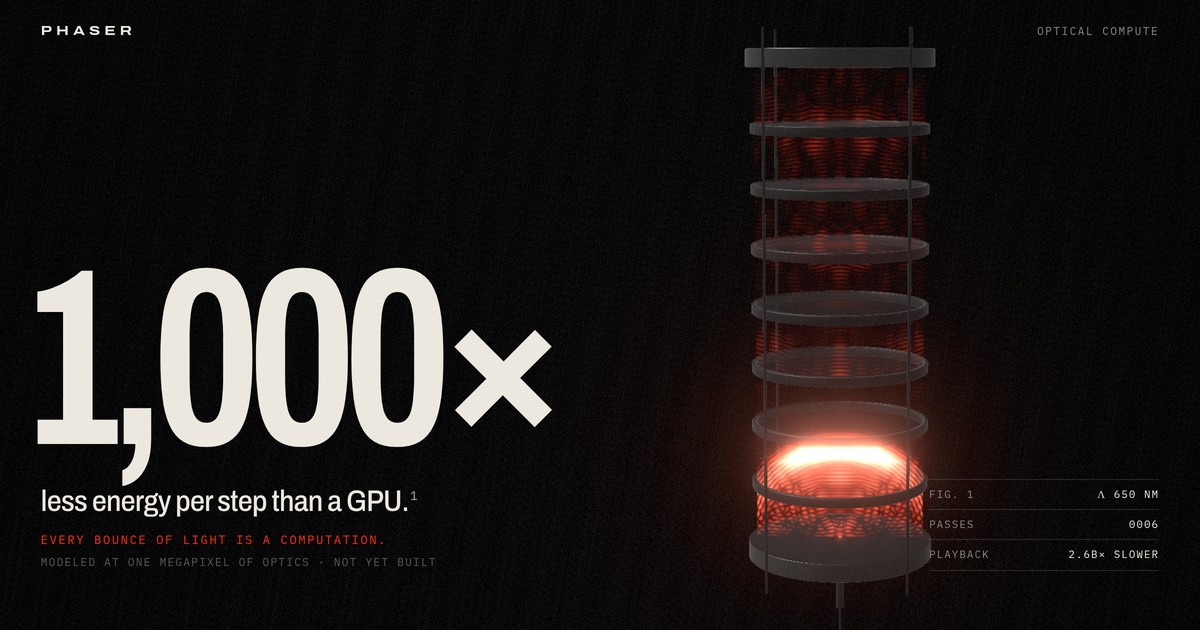
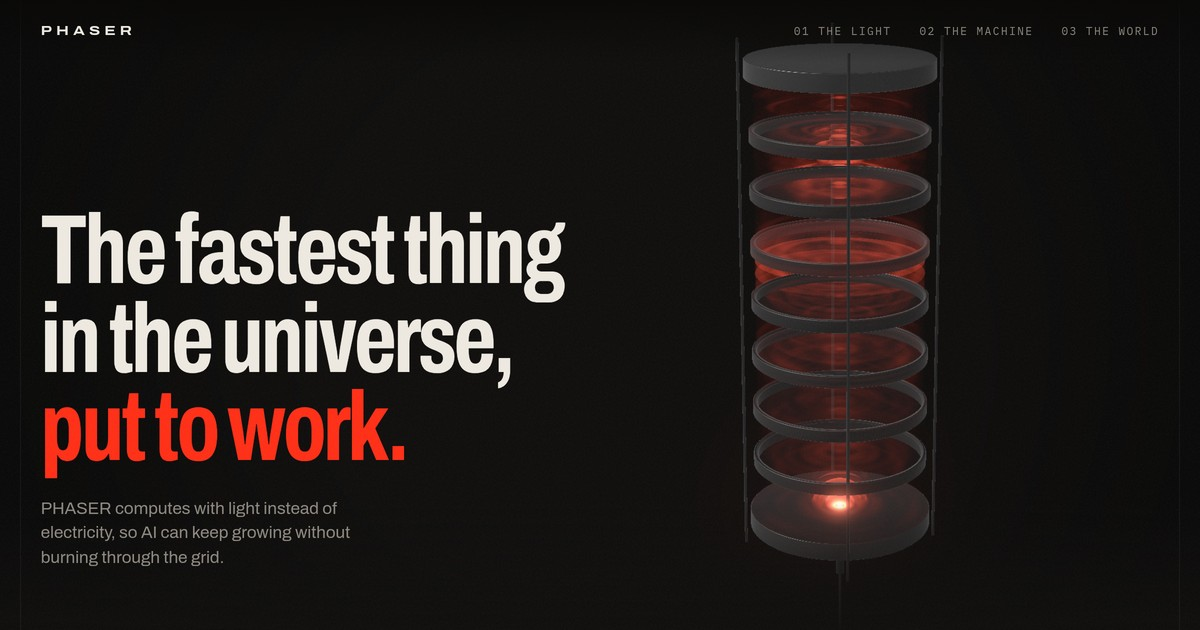
site: inspirational hero, 1,000x moves into 01, particle streams, prewarmed sim
- hero: 'The fastest thing in the universe, put to work.' with a plain-English subline; drop the Fig. 1 plate
- 01: cut 'Every one of them is paid for in heat.'; the 1,000x claim (with its modeled caveat) now sits here
- photon: a continuous stream of light packets; electrons: four at once, each zipping to an atom, heating it,
  then re-emitted toward the next atom; both start in equilibrium
- hero and miniature cavity pre-run two round trips so the first frame is fully populated
- 02: 'Optical computation' + 'Algorithms are mapped onto the diffusion process photons perform as they bounce
  within a resonance chamber.'; drop the rule above the closing paragraph
- refresh the share card

diff --git a/site/src/components/launch/FieldVolume.tsx b/site/src/components/launch/FieldVolume.tsx
@@ -3,11 +3,11 @@
  * Volumetric renderings of a photon and an electron as complex fields, ray-marched through a fine voxel grid.
  * Brightness is the density |ψ|² (for light, |E|²); colour is the phase arg ψ, mapped blue ↔ orange.
  *
- * Photon: a Gaussian wave packet of light in vacuum, E ∝ exp(−(x−ct)²/2σ² − ρ²/w²) · e^{i(kx−ωt)}. It moves rigidly at c
- * and keeps its norm: nothing in free space takes energy from it.
- * Electron: a Bloch wave packet, envelope × e^{ik·r} × a lattice-periodic factor on a diamond-cubic crystal. It drifts,
- * scatters (stalls, spreads, emits a spherical scattered wavelet) and leaves on a new heading; each event deposits heat
- * (red) into the lattice around the site.
+ * Photon: a stream of Gaussian light packets in vacuum, E ∝ exp(−(x−ct)²/2σ² − ρ²/w²) · e^{i(kx−ωt)}. They move rigidly
+ * at c and keep their norm: nothing in free space takes energy from them.
+ * Electrons: Bloch wave packets (envelope × e^{ik·r} × a lattice-periodic factor) in a diamond-cubic crystal. Each flies to
+ * an atom and is absorbed; the atom heats up (red) and rings out a spherical wavelet, then emits a new electron toward the
+ * next atom.
  */
 import { useEffect, useRef } from 'react'
 
@@ -38,22 +38,30 @@ bool box(vec3 ro, vec3 rd, out float t0, out float t1) {
 const PHOTON = COMMON + `
 uniform float uX0;
 vec4 sampleField(vec3 p) {
-  float sx = 0.55, w = 0.5, k = 22.0;
-  float dx = p.x - uX0;
-  float env = exp(-dx * dx / (2.0 * sx * sx) - dot(p.yz, p.yz) / (w * w));
-  float ph = k * dx; // the phase rides with the packet: in vacuum phase and group velocity are both c
-  float re = env * cos(ph);
-  // raw field: energy density of the real field, E·E, as thin crest sheets; colour = sign of E
-  float c2 = cos(ph) * cos(ph);
-  float dens = env * env * (c2 * c2 * 1.8 + 0.04);
-  return vec4(phaseColor(ph) * dens, dens);
+  // a continuous stream of identical light packets, evenly spaced, all moving at c
+  float sx = 0.34, w = 0.42, k = 22.0, span = 5.6, gap = 1.4;
+  float rho = exp(-dot(p.yz, p.yz) / (w * w));
+  vec3 col = vec3(0.0);
+  float dens = 0.0;
+  for (int n = 0; n < 4; n++) {
+    float x0 = mod(uX0 + float(n) * gap + span * 0.5, span) - span * 0.5;
+    float dx = p.x - x0;
+    float env = exp(-dx * dx / (2.0 * sx * sx)) * rho;
+    float ph = k * dx; // the phase rides with the packet: in vacuum phase and group velocity are both c
+    float c2 = cos(ph) * cos(ph);
+    // raw field: energy density of the real field E·E as thin crest sheets; colour = sign of E
+    float d = env * env * (c2 * c2 * 1.8 + 0.04);
+    col += phaseColor(ph) * d;
+    dens += d;
+  }
+  return vec4(col, dens);
 }
 `
 
 const ELECTRON = COMMON + `
-uniform vec3 uC, uK;          // packet centre and wave vector
-uniform float uSig;           // envelope width (grows while scattering)
-uniform vec4 uEv[6];          // scattering events: xyz = site, w = birth time (−1 = none)
+uniform vec4 uE[4];           // electrons: xyz = centre, w = 1 when in flight
+uniform vec3 uEk[4];          // their wave vectors
+uniform vec4 uEv[10];         // absorption events: xyz = atom, w = time (−1 = none)
 const float A = 0.5;           // lattice constant
 float lattice(vec3 p) {
   // diamond cubic density: distance to the nearest of the 8 basis atoms in the unit cell
@@ -70,34 +78,40 @@ float lattice(vec3 p) {
 }
 vec4 sampleField(vec3 p) {
   float u = lattice(p);
-  vec3 r = p - uC;
-  float env = exp(-dot(r, r) / (2.0 * uSig * uSig));
-  // Bloch packet: envelope × plane wave × (smooth + lattice-periodic part)
-  float amp = env * (0.8 + 0.5 * u);
-  float ph = dot(uK, r) - uT * 9.0;
-  vec2 psi = amp * vec2(cos(ph), sin(ph));
+  vec3 col = vec3(0.0);
+  float dens = 0.0;
+  for (int i = 0; i < 4; i++) {
+    if (uE[i].w < 0.5) continue;
+    vec3 r = p - uE[i].xyz;
+    float env = exp(-dot(r, r) / (2.0 * 0.15 * 0.15));
+    if (env < 1e-3) continue;
+    // Bloch packet: envelope × plane wave × (smooth + lattice-periodic part), drawn through Re ψ
+    float ph = dot(uEk[i], r) - uT * 14.0;
+    float cc = cos(ph) * cos(ph);
+    float d = env * env * (0.8 + 0.5 * u) * (0.08 + 1.7 * cc * cc);
+    col += phaseColor(ph) * d;
+    dens += d;
+  }
   float heat = 0.0;
-  for (int i = 0; i < 6; i++) {
+  for (int i = 0; i < 10; i++) {
     if (uEv[i].w < 0.0) continue;
     float age = uT - uEv[i].w;
     vec3 q = p - uEv[i].xyz;
-    float d = length(q);
-    // outgoing spherical scattered wavelet
-    float shell = exp(-pow(d - 0.9 * age, 2.0) / (2.0 * 0.05 * 0.05)) * exp(-age * 1.6) / (1.0 + 5.0 * d);
-    float phs = 22.0 * d - uT * 9.0;
-    psi += 1.4 * shell * vec2(cos(phs), sin(phs));
-    // heat left in the lattice around the site
-    heat += (0.25 + u) * exp(-d * d / 0.02) * exp(-age * 0.5);
+    float dd = length(q);
+    // the absorbing atom rings out a spherical wavelet ...
+    float shell = exp(-pow(dd - 1.2 * age, 2.0) / (2.0 * 0.04 * 0.04)) * exp(-age * 3.0) / (1.0 + 6.0 * dd);
+    float phs = 26.0 * dd - uT * 14.0;
+    float cs = cos(phs) * cos(phs);
+    float ds = shell * shell * 1.6 * (0.1 + 1.6 * cs * cs);
+    col += phaseColor(phs) * ds;
+    dens += ds;
+    // ... and heats up
+    heat += (0.3 + u) * exp(-dd * dd / 0.012) * exp(-age * 0.9);
   }
-  float ph2 = atan(psi.y, psi.x);
-  // probability cloud |ψ|², drawn through its real part so the phase fronts show as sheets
-  float cc = cos(ph2) * cos(ph2);
-  float dens = dot(psi, psi) * (0.08 + 1.7 * cc * cc);
-  vec3 col = phaseColor(ph2);
   // the crystal itself: faint grey density at the atom sites; heat turns it red
   float lat = u * 0.3;
-  vec3 c = col * dens + vec3(0.62, 0.6, 0.57) * lat + vec3(1.0, 0.14, 0.06) * heat * 2.0;
-  return vec4(c, dens + lat + heat * 2.0);
+  col += vec3(0.62, 0.6, 0.57) * lat + vec3(1.0, 0.14, 0.06) * heat * 2.4;
+  return vec4(col, dens + lat + heat * 2.4);
 }
 `
 
@@ -154,13 +168,59 @@ export function FieldVolume({ kind, onEvent }: { kind: Kind; onEvent?: (n: numbe
     const loc = gl.getAttribLocation(pr, 'p'); gl.enableVertexAttribArray(loc); gl.vertexAttribPointer(loc, 2, gl.FLOAT, false, 0, 0)
     const U = (n: string) => gl.getUniformLocation(pr, n)
 
-    // electron walk state
+    // electrons hop atom to atom: fly to a target atom, get absorbed (the atom heats up), and a moment later a new
+    // electron leaves that atom for the next target
     let seed = 11
     const rnd = () => ((seed = (seed * 16807) % 2147483647) / 2147483647)
-    const W = { c: [-1.7, 0, 0] as V3, dir: [1, 0, 0] as V3, seg: 0, free: 0.5, stall: 0, sig: 0.34, events: [] as [number, number, number, number][], hits: 0 }
-    const newDir = (): V3 => norm([0.8 + rnd() * 0.7, (rnd() - 0.5) * 1.8, (rnd() - 0.5) * 1.8])
+    const LA = 0.5
+    const BASIS: V3[] = [[0, 0, 0], [0.5, 0.5, 0], [0.5, 0, 0.5], [0, 0.5, 0.5], [0.25, 0.25, 0.25], [0.75, 0.75, 0.25], [0.75, 0.25, 0.75], [0.25, 0.75, 0.75]]
+    const atoms: V3[] = []
+    for (let i = -4; i <= 4; i++) for (let j = -2; j <= 2; j++) for (let k = -2; k <= 2; k++) for (const b of BASIS) {
+      const q: V3 = [(i + b[0]) * LA, (j + b[1]) * LA, (k + b[2]) * LA]
+      if (Math.abs(q[0]) < 1.85 && Math.abs(q[1]) < 0.8 && Math.abs(q[2]) < 0.8) atoms.push(q)
+    }
+    const pick = (from: V3): V3 => {
+      // next target: an atom ahead (the applied field pushes +x), a short hop away
+      const c = atoms.filter((q) => q[0] - from[0] > 0.15 && q[0] - from[0] < 0.9 && Math.hypot(q[1] - from[1], q[2] - from[2]) < 0.7)
+      return c.length ? c[Math.floor(rnd() * c.length)] : atoms[Math.floor(rnd() * atoms.length)]
+    }
+    type E = { p: V3; to: V3; dir: V3; state: 'fly' | 'hot'; timer: number }
+    const spawn = (): E => { const p: V3 = [-1.95, (rnd() - 0.5) * 1.2, (rnd() - 0.5) * 1.2]; const to = pick(p); return { p, to, dir: norm([to[0] - p[0], to[1] - p[1], to[2] - p[2]]), state: 'fly', timer: 0 } }
+    const el: E[] = Array.from({ length: 4 }, spawn)
+    const events: [number, number, number, number][] = []
+    let hits = 0
+    const stepE = (d: number, now: number) => {
+      for (let n = 0; n < el.length; n++) {
+        const e = el[n]
+        if (e.state === 'fly') {
+          const v = 2.4 * d
+          const dx = e.to[0] - e.p[0], dy = e.to[1] - e.p[1], dz = e.to[2] - e.p[2]
+          const dist = Math.hypot(dx, dy, dz)
+          if (dist <= v) {
+            e.p = [...e.to] as V3
+            e.state = 'hot'
+            e.timer = 0.3 + rnd() * 0.25
+            events.push([e.to[0], e.to[1], e.to[2], now])
+            if (events.length > 10) events.shift()
+            hits++
+          } else e.p = [e.p[0] + (dx / dist) * v, e.p[1] + (dy / dist) * v, e.p[2] + (dz / dist) * v]
+        } else {
+          e.timer -= d
+          if (e.timer <= 0) {
+            if (e.p[0] > 1.35) { el[n] = spawn(); continue }
+            e.to = pick(e.p)
+            e.dir = norm([e.to[0] - e.p[0], e.to[1] - e.p[1], e.to[2] - e.p[2]])
+            e.state = 'fly'
+          }
+        }
+      }
+    }
+    // start in equilibrium: stagger the electrons across the crystal and let them run for a few seconds
+    el.forEach((e, n) => { e.p = [-1.8 + n * 0.9, e.p[1], e.p[2]]; e.to = pick(e.p); e.dir = norm([e.to[0] - e.p[0], e.to[1] - e.p[1], e.to[2] - e.p[2]]) })
+    let tPre = 0
+    for (let i = 0; i < 240; i++) { tPre += 1 / 60; stepE(1 / 60, tPre) }
 
-    let raf = 0, visible = false, last = performance.now(), t = 0, first = true
+    let raf = 0, visible = false, last = performance.now(), t = tPre, first = true
     const reduced = matchMedia('(prefers-reduced-motion: reduce)').matches
     const io = new IntersectionObserver(([e]) => { visible = e.isIntersecting })
     io.observe(cv)
@@ -190,33 +250,16 @@ export function FieldVolume({ kind, onEvent }: { kind: Kind; onEvent?: (n: numbe
       gl.uniform3fv(U('uEye'), eye); gl.uniform3fv(U('uRight'), right); gl.uniform3fv(U('uUp'), up); gl.uniform3fv(U('uFwd'), fwd)
       if (kind === 'photon') {
         const span = 5.2
-        gl.uniform1f(U('uX0'), ((t * 1.1) % span) - span / 2)
+        gl.uniform1f(U('uX0'), (t * 1.1) % span)
       } else {
-        if (W.stall > 0) {
-          W.stall -= d
-          W.sig = Math.min(0.5, W.sig + d * 0.5)
-          if (W.stall <= 0) { W.dir = newDir(); W.seg = 0; W.free = 0.3 + rnd() * 0.45 }
-        } else {
-          W.sig = Math.max(0.32, W.sig - d * 0.35)
-          const v = 0.55
-          W.c = [W.c[0] + W.dir[0] * v * d, W.c[1] + W.dir[1] * v * d, W.c[2] + W.dir[2] * v * d]
-          W.seg += v * d
-          for (const ax of [1, 2] as const) if (Math.abs(W.c[ax]) > 0.62) { W.dir[ax] *= -1; W.c[ax] = Math.sign(W.c[ax]) * 0.62 }
-          if (W.c[0] > 1.75) { W.c = [-1.75, (rnd() - 0.5) * 0.6, (rnd() - 0.5) * 0.6]; W.dir = [1, 0, 0] }
-          if (W.seg > W.free) {
-            W.stall = 0.45
-            W.events.push([W.c[0], W.c[1], W.c[2], t])
-            if (W.events.length > 6) W.events.shift()
-            W.hits++
-            cb.current?.(W.hits)
-          }
-        }
-        gl.uniform3fv(U('uC'), W.c)
-        const k = W.stall > 0 ? 9 : 22
-        gl.uniform3fv(U('uK'), [W.dir[0] * k, W.dir[1] * k, W.dir[2] * k])
-        gl.uniform1f(U('uSig'), W.sig)
-        const ev = new Float32Array(24).fill(-1)
-        W.events.forEach((e, i) => ev.set(e, i * 4))
+        stepE(d, t)
+        cb.current?.(hits)
+        const E = new Float32Array(16), K = new Float32Array(12)
+        el.forEach((e, n) => { E.set([e.p[0], e.p[1], e.p[2], e.state === 'fly' ? 1 : 0], n * 4); K.set([e.dir[0] * 24, e.dir[1] * 24, e.dir[2] * 24], n * 3) })
+        gl.uniform4fv(U('uE'), E)
+        gl.uniform3fv(U('uEk'), K)
+        const ev = new Float32Array(40).fill(-1)
+        events.forEach((e, i) => ev.set(e, i * 4))
         gl.uniform4fv(U('uEv'), ev)
       }
       gl.drawArrays(gl.TRIANGLE_STRIP, 0, 4)

diff --git a/site/src/components/launch/Hero.module.css b/site/src/components/launch/Hero.module.css
@@ -5,21 +5,15 @@
 .top { position: fixed; top: 0; left: 0; right: 0; background: linear-gradient(to bottom, rgba(10, 9, 8, 0.85), rgba(10, 9, 8, 0)); display: flex; justify-content: space-between; align-items: baseline; padding: 22px var(--gutter); color: var(--graphite); z-index: 60; }
 .mark { font-family: var(--f-display); font-variation-settings: 'wdth' 125; font-weight: 700; letter-spacing: 0.32em; font-size: 13px; color: var(--fg); }
 .claim { position: absolute; left: var(--gutter); bottom: clamp(56px, 11vh, 120px); z-index: 2; max-width: 52vw; pointer-events: none; }
-.claim h1 { margin: 0; font-weight: 400; }
-.big { display: block; font-size: clamp(120px, 21vw, 400px); color: var(--fg); margin-left: -0.04em; }
-.line { display: block; font-size: clamp(22px, 2.5vw, 44px); font-variation-settings: 'wdth' 85; font-weight: 500; letter-spacing: -0.015em; line-height: 1.05; margin-top: 0.75em; max-width: 14em; }
-.sub { margin: 1.1em 0 0; font-family: var(--f-mono); font-size: 12px; letter-spacing: 0.14em; text-transform: uppercase; color: var(--red); }
-.note { margin: 0.6em 0 0; font-family: var(--f-mono); font-size: 11px; letter-spacing: 0.12em; text-transform: uppercase; color: var(--graphite-2); }
-.plate { position: absolute; right: var(--gutter); bottom: clamp(56px, 11vh, 120px); z-index: 2; font-family: var(--f-mono); font-size: 10.5px; letter-spacing: 0.12em; text-transform: uppercase; color: var(--graphite); border-top: 1px solid var(--rule); min-width: 230px; }
-.plate div { display: flex; justify-content: space-between; gap: 24px; padding: 7px 0; border-bottom: 1px solid var(--rule); }
-.plate div span:last-child { color: var(--fg); font-feature-settings: 'tnum' 1; }
+.h1 { margin: 0; font-variation-settings: 'wdth' 68; font-weight: 700; font-size: clamp(56px, 8.2vw, 150px); line-height: 0.9; letter-spacing: -0.03em; color: var(--fg); }
+.h1 span { display: block; }
+.red { color: var(--red); }
+.sub { margin: 1.4em 0 0; font-size: clamp(17px, 1.35vw, 21px); line-height: 1.45; color: var(--graphite); max-width: 32ch; }
 .scroll { position: absolute; left: 50%; bottom: 22px; transform: translateX(-50%); z-index: 2; display: flex; flex-direction: column; align-items: center; gap: 10px; color: var(--graphite); text-decoration: none; }
 .scroll i { display: block; width: 1px; height: 36px; background: linear-gradient(var(--graphite), transparent); }
 @media (max-width: 820px) {
-  .claim { max-width: none; right: var(--gutter); bottom: 150px; }
-  .big { font-size: 34vw; }
-  .plate { left: var(--gutter); right: var(--gutter); bottom: 64px; min-width: 0; }
-  .plate div:nth-child(3) { display: none; }
+  .claim { max-width: none; right: var(--gutter); bottom: 64px; }
+  .h1 { font-size: 13vw; }
   .scroll { display: none; }
 }
 

diff --git a/site/src/components/launch/Hero.tsx b/site/src/components/launch/Hero.tsx
@@ -1,29 +1,10 @@
 'use client'
 import dynamic from 'next/dynamic'
-import { useEffect, useRef, useState } from 'react'
 import s from './Hero.module.css'
 
 const MachineCanvas = dynamic(() => import('../machine/MachineCanvas'), { ssr: false, loading: () => null })
 
-/** real round trip of the modeled cavity (research/2026-09-14, Exp. 29: 6.7 ns per step = 10 trips) */
-const REAL_TRIP_S = 0.667e-9
-
 export function Hero() {
-  const [slow, setSlow] = useState<string | null>(null)
-  const steps = useRef<HTMLSpanElement>(null)
-  useEffect(() => {
-    let raf = 0
-    const tick = () => {
-      raf = requestAnimationFrame(tick)
-      const m = (window as unknown as { __machine?: { pulses: number; tripSeconds: number } }).__machine
-      if (!m) return
-      if (steps.current) steps.current.textContent = String(m.pulses).padStart(4, '0')
-      if (!slow) setSlow(new Intl.NumberFormat('en-US', { notation: 'compact', maximumFractionDigits: 1 }).format(m.tripSeconds / REAL_TRIP_S))
-    }
-    raf = requestAnimationFrame(tick)
-    return () => cancelAnimationFrame(raf)
-  }, [slow])
-
   return (
     <header className={s.hero}>
       <div className={s.canvas} aria-hidden="true" style={{ ['--poster' as string]: `url(${process.env.NEXT_PUBLIC_BASE_PATH ?? ''}/og.jpg)` }}><MachineCanvas global /></div>
@@ -36,17 +17,12 @@ export function Hero() {
         </nav>
       </div>
       <div className={s.claim}>
-        <h1>
-          <span className={`num ${s.big}`}>1,000×</span>
-          <span className={s.line}>less energy per step than a GPU.</span>
+        <h1 className={s.h1}>
+          <span>The fastest thing</span>
+          <span>in the universe,</span>
+          <span className={s.red}>put to work.</span>
         </h1>
-        <p className={s.sub}>Every bounce of light is a computation.</p>
-        <p className={s.note}>Modeled at one megapixel of optics · not yet built</p>
-      </div>
-      <div className={s.plate} aria-hidden="true">
-        <div><span>Fig. 1</span><span>λ 650 nm</span></div>
-        <div><span>Passes</span><span ref={steps}>0000</span></div>
-        <div><span>Playback</span><span>{slow ? `${slow}× slower` : '—'}</span></div>
+        <p className={s.sub}>PHASER computes with light instead of electricity, so AI can keep growing without burning through the grid.</p>
       </div>
       <a className={s.scroll} href="#light"><span className="label">Why it matters</span><i /></a>
     </header>

diff --git a/site/src/components/launch/Machine.module.css b/site/src/components/launch/Machine.module.css
@@ -2,6 +2,7 @@
 .h { margin: 0; font-variation-settings: 'wdth' 70; font-weight: 700; font-size: clamp(40px, 6.4vw, 104px); line-height: 0.92; letter-spacing: -0.03em; }
 .h span { display: block; }
 .red { color: var(--red); }
+.lede { margin: 24px 0 0; font-size: clamp(19px, 1.6vw, 24px); line-height: 1.45; color: var(--graphite); max-width: 36ch; }
 
 /* anatomy: the three metrics annotated against a live miniature of the machine */
 .anatomy { position: relative; display: grid; grid-template-columns: 1fr minmax(260px, 420px) 1fr; gap: 24px; margin-top: clamp(48px, 6vw, 96px); align-items: center; }
@@ -32,7 +33,7 @@
   .leaders { display: none; }
 }
 
-.close { display: grid; grid-template-columns: 1fr auto; gap: 32px 64px; align-items: end; margin-top: clamp(80px, 10vw, 150px); padding-top: 32px; border-top: 1px solid var(--rule); }
+.close { display: grid; grid-template-columns: 1fr auto; gap: 32px 64px; align-items: end; margin-top: clamp(80px, 10vw, 150px); }
 .body { margin: 0; font-size: 19px; line-height: 1.5; max-width: 44ch; color: var(--graphite); }
 .cta { display: flex; gap: 12px; flex-wrap: wrap; }
 .cta a { font-family: var(--f-mono); font-size: 12px; letter-spacing: 0.12em; text-transform: uppercase; text-decoration: none; border: 1px solid var(--rule); padding: 14px 18px; color: var(--fg); transition: border-color .2s, color .2s; }

diff --git a/site/src/components/launch/Close.module.css b/site/src/components/launch/Close.module.css
@@ -19,3 +19,7 @@
 .foot a:hover { color: var(--fg); }
 .receipts { min-height: 100svh; padding-top: 120px; }
 .receipts ol { font-size: 12.5px; }
+.claim { display: flex; align-items: flex-end; gap: clamp(20px, 3vw, 48px); flex-wrap: wrap; margin-top: clamp(48px, 6vw, 96px); }
+.claim :global(.num) { font-size: clamp(110px, 17vw, 300px); color: var(--fg); margin-left: -0.04em; }
+.claim p { margin: 0 0 0.6em; display: flex; flex-direction: column; gap: 14px; font-size: clamp(22px, 2.4vw, 40px); font-variation-settings: 'wdth' 85; font-weight: 500; line-height: 1.05; letter-spacing: -0.015em; max-width: 12em; }
+.note { font-family: var(--f-mono); font-size: 11px; letter-spacing: 0.12em; text-transform: uppercase; color: var(--graphite-2); font-weight: 400; line-height: 1.5; }

diff --git a/site/src/components/launch/Machine.tsx b/site/src/components/launch/Machine.tsx
@@ -63,10 +63,8 @@ export function MachineSection() {
     <section className={s.sec} id="machine" aria-labelledby="machine-h">
       <div className="wrap">
         <p className="eyebrow">02 / The machine</p>
-        <h2 id="machine-h" className={s.h}>
-          <span>Two mirrors. Seven panes of glass.</span>
-          <span className={s.red}>The light does the math.</span>
-        </h2>
+        <h2 id="machine-h" className={s.h}>Optical computation</h2>
+        <p className={s.lede}>Algorithms are mapped onto the diffusion process photons perform as they bounce within a resonance chamber.</p>
 
         <div className={s.anatomy} ref={stage}>
           <div className={s.col}>

diff --git a/site/src/components/launch/Light.tsx b/site/src/components/launch/Light.tsx
@@ -8,9 +8,15 @@ export function Light() {
         <p className="eyebrow">01 / The light</p>
         <h2 id="light-h" className={s.h}>
           <span>Intelligence runs on electrons.</span>
-          <span className={s.dim}>Every one of them is paid for in heat.</span>
           <span className={s.red}>PHASER runs it on light.</span>
         </h2>
+        <div className={s.claim}>
+          <span className="num">1,000×</span>
+          <p>
+            <span>less energy per step than a GPU.</span>
+            <span className={s.note}>Modeled at one megapixel of optics · not yet built</span>
+          </p>
+        </div>
         <Carriers />
       </div>
     </section>

diff --git a/site/src/components/launch/Carriers.tsx b/site/src/components/launch/Carriers.tsx
@@ -19,7 +19,7 @@ export function Carriers() {
         <div className={s.vol}><FieldVolume kind="electron" onEvent={(n) => { if (hits.current) hits.current.textContent = String(n).padStart(4, '0') }} /></div>
         <figcaption>
           <span className={s.big}>{GPU_PJ.toFixed(1)}<small>pJ</small></span>
-          <span className={s.what}>per multiply in silicon, all of it heat. The electron scatters, stalls, and turns again: <b ref={hits}>0000</b></span>
+          <span className={s.what}>per multiply in silicon, all of it heat. Every hop an electron makes ends in a hot atom: <b ref={hits}>0000</b></span>
         </figcaption>
       </figure>
       <figure>

diff --git a/site/src/components/machine/engine.ts b/site/src/components/machine/engine.ts
@@ -492,6 +492,8 @@ export class Machine {
     this.composer.addPass(this.grade)
     this.composer.addPass(new OutputPass())
     this.layout()
+    // pre-warm: run two round trips before the first frame so the cavity is already full of wavefronts
+    this.step(2 * ROUND_TRIP_STEPS)
   }
 
   setPointer(x: number, y: number) { this.pointer.set(x, y) }
